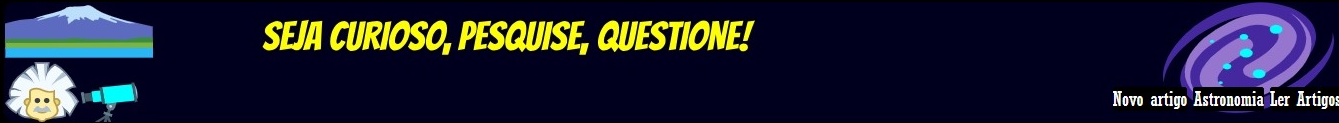
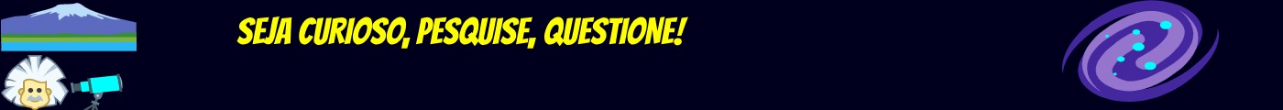
organizando pacotes antes de iniciar

Changed region(s): [[0.0, 0.0, 1.0, 1.0], [0.1871, 0.1364, 0.5612, 0.4636]]

diff --git a/src/App.jsx b/src/App.jsx
@@ -1,12 +1,14 @@
 import React from 'react';
-import ListarProdutos from './frontend/views/ProdutosMaisVendidos';
-import './frontend/css/index.css'
+import Center from './components/center/Center';
+import Header from './components/header/Header';
+import './frontend/css/body/body.css'
 
 function App() {
   return (<>
-    <body>
-      <ListarProdutos />
-    </body>
+  <body>
+    <Header />
+    <Center />
+  </body>
   </>)
 }
 

diff --git a/src/components/center/Center.jsx b/src/components/center/Center.jsx
@@ -1,0 +1,14 @@
+import React from 'react';
+import '../../frontend/css/center/center.css';
+
+class Center extends React.Component {
+  render() {
+    return (
+        <div class="div-center">
+          <h1>Seja Bem-Vindo!</h1>
+        </div>
+    )
+  }
+}
+
+export default Center

diff --git a/src/components/header/Header.jsx b/src/components/header/Header.jsx
@@ -1,0 +1,14 @@
+import React from 'react';
+import '../../frontend/css/header/header.css';
+
+class Header extends React.Component {
+  render() {
+    return (
+      <div>
+        <div class="div-header"></div>
+      </div>
+    )
+  }
+}
+
+export default Header

diff --git a/src/frontend/css/header/header.css b/src/frontend/css/header/header.css
@@ -1,0 +1,10 @@
+
+.div-header {
+    display: flex;
+    margin: 0.1em 0.1em;
+    padding: 5px;
+    height: 10rem;
+    background-image: url("/src/images/banner.png");
+    background-size: 100%;
+}
+

diff --git a/src/frontend/css/center/center.css b/src/frontend/css/center/center.css
@@ -1,0 +1,8 @@
+
+.div-center {
+    background-color: burlywood;
+    height: 100%;
+    text-align: center;
+    margin: 0.1em 0.1em;
+    padding: 0.5%;
+}

diff --git a/src/frontend/css/body/body.css b/src/frontend/css/body/body.css
@@ -8,4 +8,3 @@
 body {
     background-color: green;
 }
-
